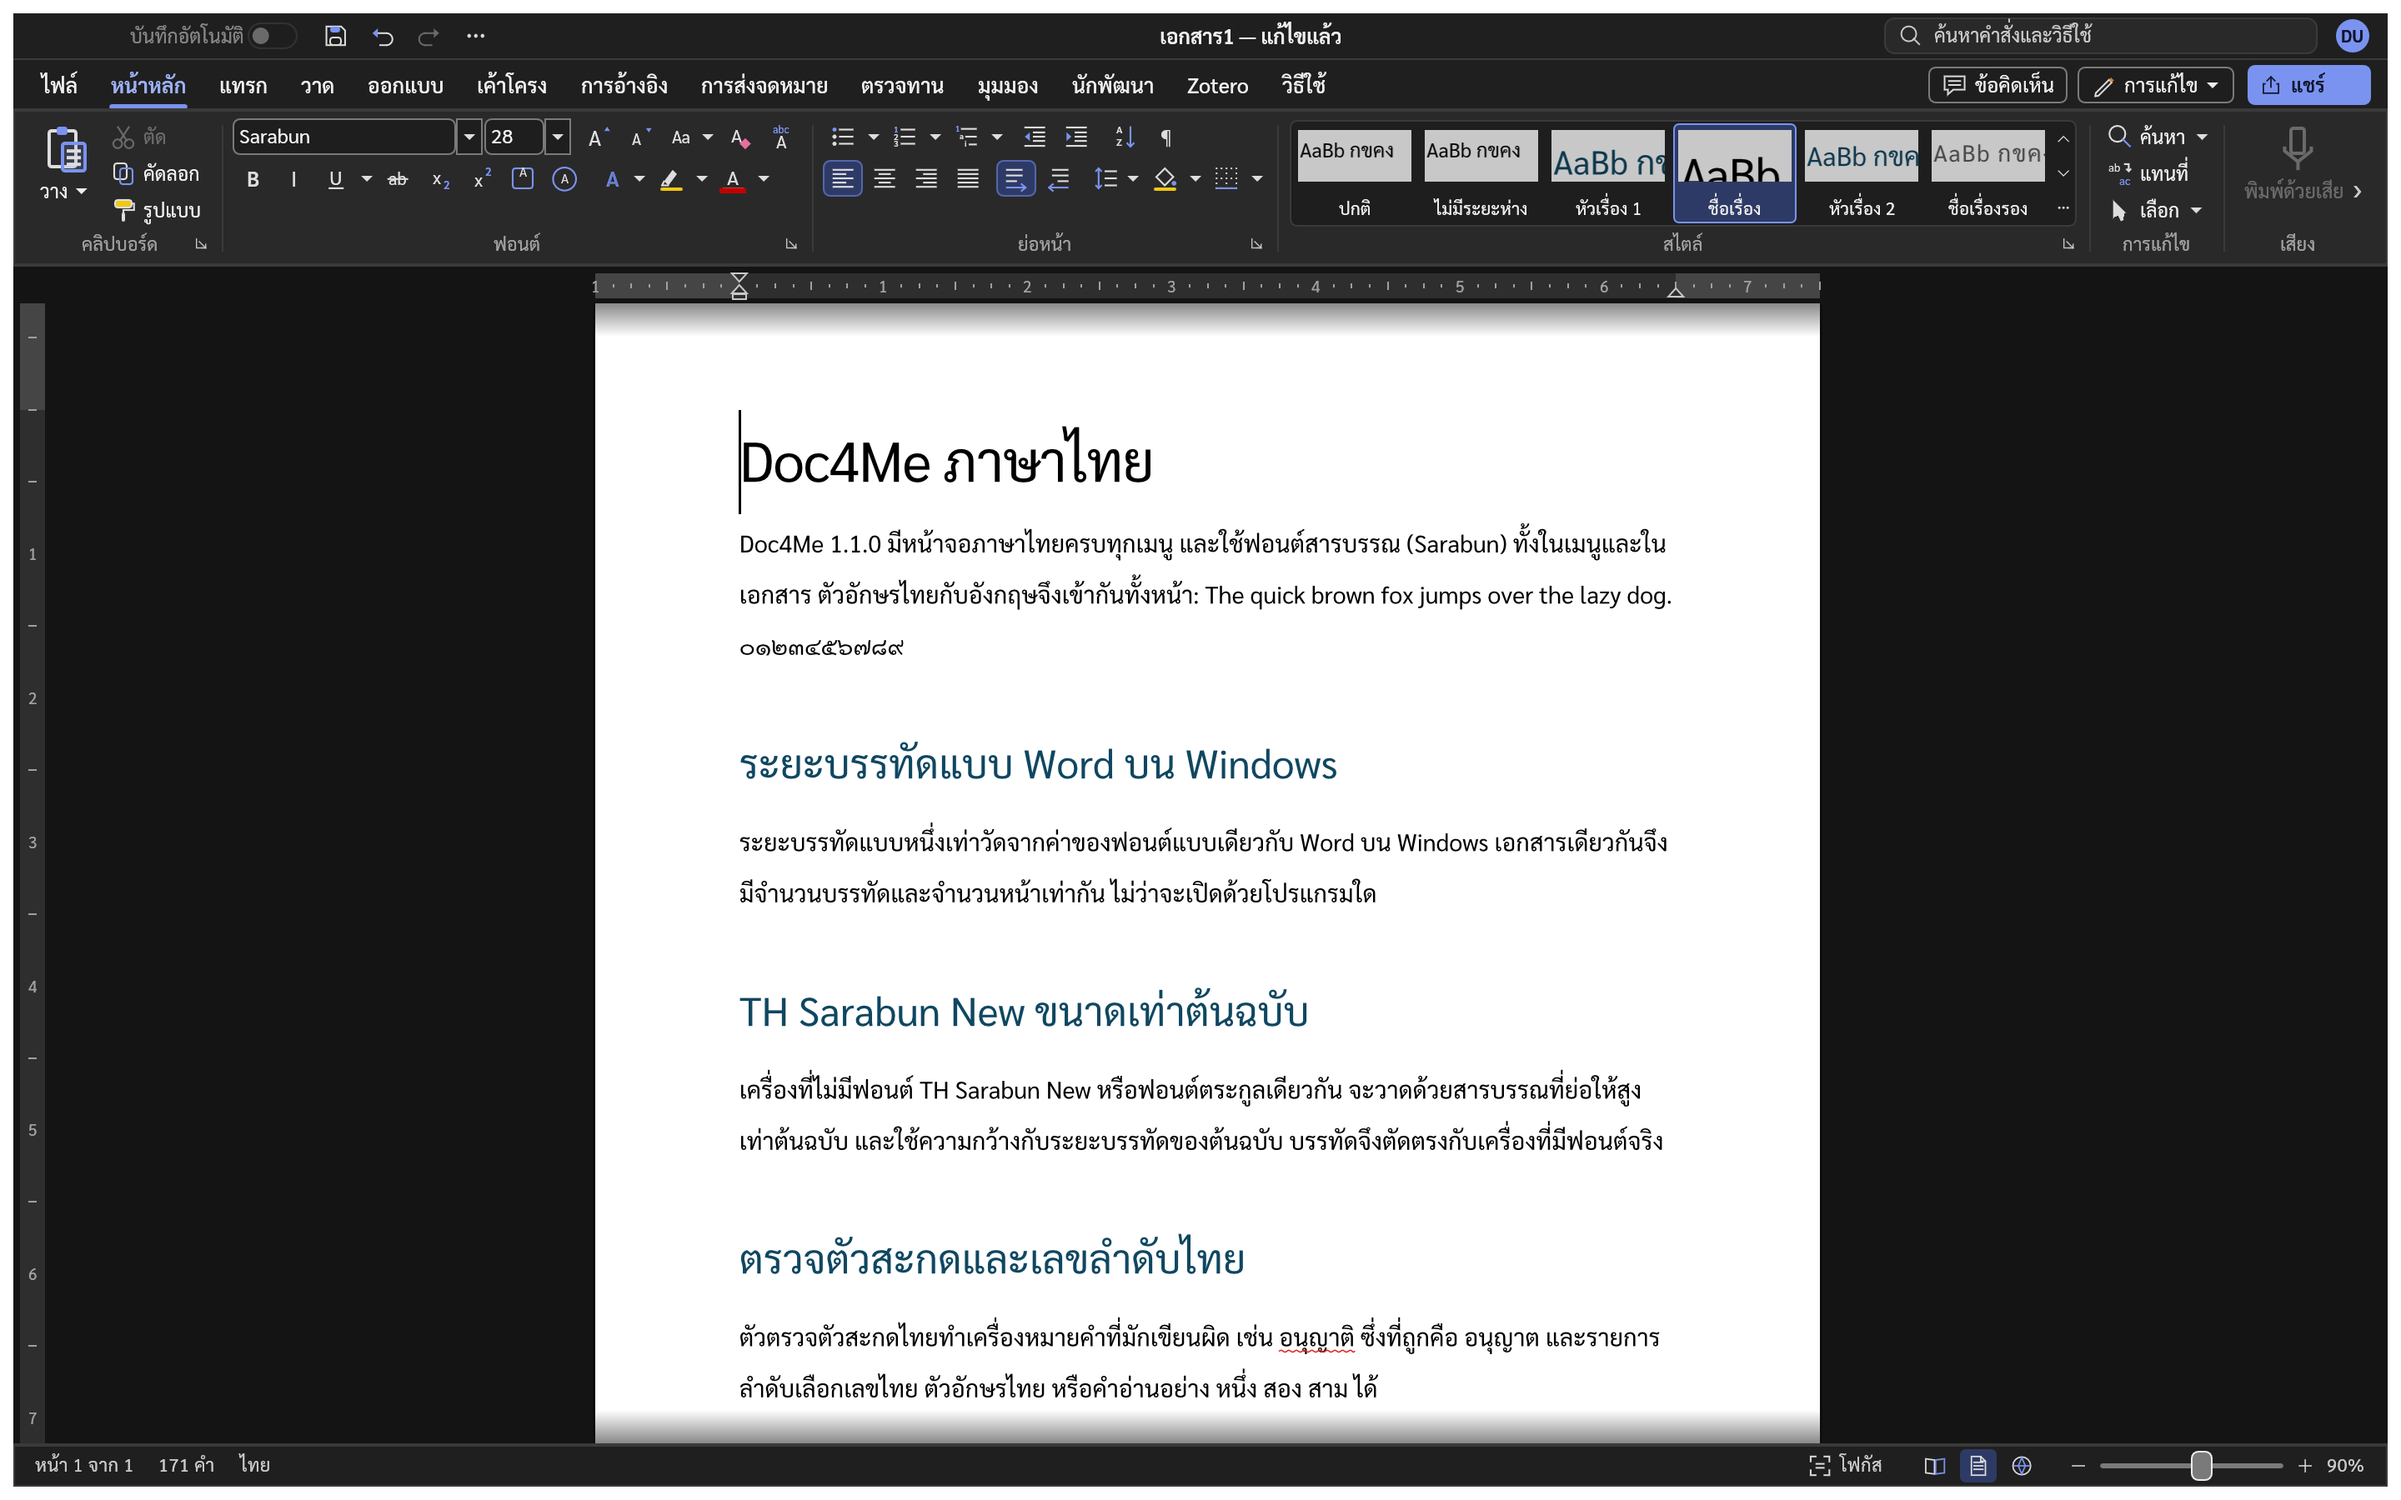
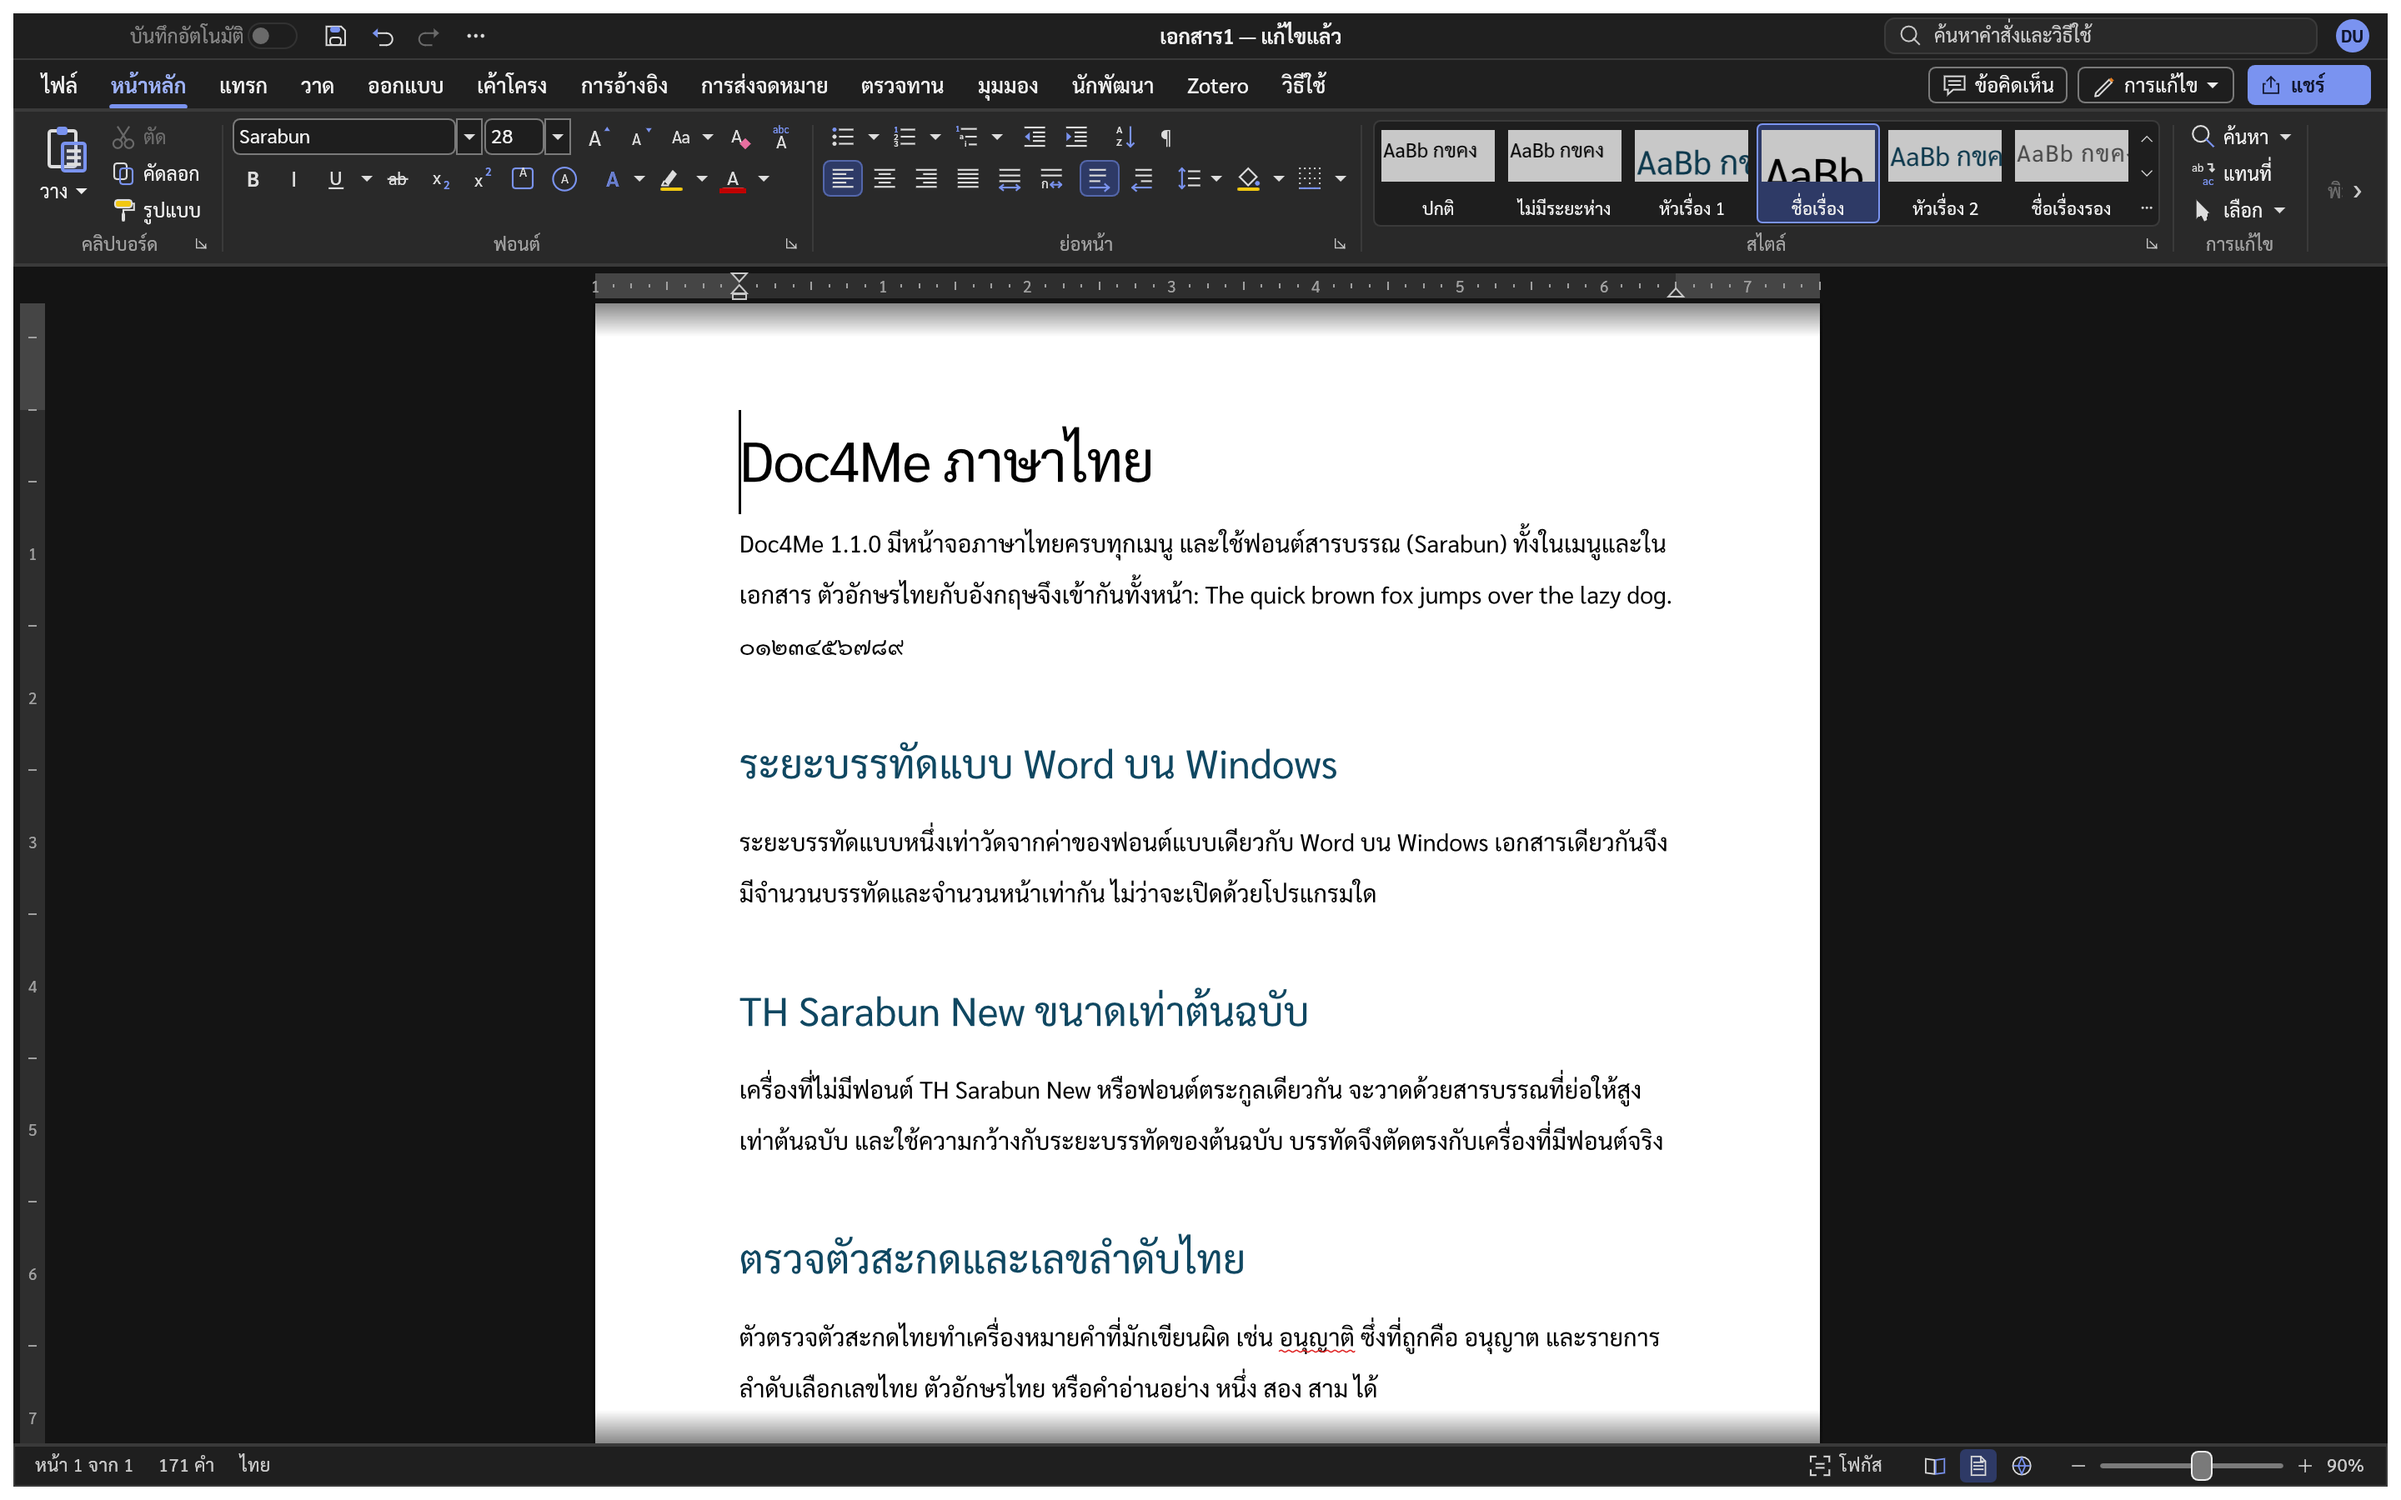
Re-shoot the README screenshots for 1.1.1
The Home tab shows the Distributed and Thai Distributed buttons and the Font
dialog's Advanced page the Normal/Expanded/Condensed spacing box.

Claude-Session: https://claude.ai/code/session_01W347bB3rHem5Shnqp7FVnv

Changed region(s): [[0.5312, 0.0622, 0.9688, 0.1867], [0.4062, 0.0933, 0.5, 0.1867]]

diff --git a/CHANGELOG.md b/CHANGELOG.md
@@ -29,6 +29,11 @@
   - เพิ่ม Expanded = ขยาย, Condensed = บีบ, By: = ขนาด:, Normal (context `spacing`) = ปกติ พร้อมเหตุผลที่เลือก และตัวเลขแค็ตตาล็อกเป็น 2,456 รายการ เป้าหมาย Doc4Me 1.1.1
   - ไม่มีผลต่อโปรแกรม ตรวจสอบ: นับรายการใน `th.tsv` ได้ 2,456 (`grep -vc '^#\|^$'`)
 
+- **ภาพหน้าจอใน README ถ่ายใหม่ด้วย 1.1.1** (`docs/images/{hero,thai,dark,dark-th,font,font-th}.png`)
+  - เหตุผล: แถบย่อหน้าบนริบบอนมีปุ่มจัดกระจายและจัดกระจายแบบไทยเพิ่ม และหน้าขั้นสูงของกล่องฟอนต์เปลี่ยนเป็นช่องระยะห่าง ปกติ/ขยาย/บีบ กับช่องขนาด
+  - ถ่ายด้วยสคริปต์เดิมใน `docs/images/shots/` (ไม่ได้แก้สคริปต์) ภาพอื่นไม่ได้ถ่ายใหม่เพราะไม่แสดงแถบหน้าหลักหรือกล่องฟอนต์
+  - ตรวจสอบ: `ui_shot` ทั้ง 6 สคริปต์จบด้วย exit 0 และเปิดดู `thai.png` กับ `font-th.png` แล้วเห็นปุ่มใหม่ และ ระยะห่าง: ปกติ / ขนาด: 0.0 pt (ปิดใช้งานเมื่อเป็นปกติ)
+
 ### แก้ไข
 
 - **กล่อง Paragraph แสดงการจัดแนว "จัดกระจายแบบไทย" เป็น `thaidistribute`** (`crates/ui-egui/src/dialogs.rs` `align_value`)

diff --git a/handoff.md b/handoff.md
@@ -7,7 +7,8 @@
 - 2026-10-22 ผู้ใช้สั่ง: เพิ่มการจัดแนว จัดกระจายแบบไทย, ระยะห่างตัวอักขระ ปกติ/บีบ/ขยาย ขนาด 0–1584 pt และเลขเวอร์ชัน 1.1.1 ทำเสร็จและ push ไป `main` แล้ว เทสต์ ui-egui/engine, audit ภาษา, clippy และ fmt ผ่าน (ดู `[1.1.1]` หมวดการตรวจสอบ)
 - `Cargo.toml` เป็น 1.1.1 และ CHANGELOG มี `## [1.1.1] - 2026-10-22` แล้ว `[Unreleased]` ว่าง
 - ขั้นที่ session บนคลาวด์ทำไม่ได้ (push tag ได้ HTTP 403): `git fetch origin && git tag -a v1.1.1 origin/main -m "Doc4Me 1.1.1" && git push origin v1.1.1` workflow จะสร้าง Release เอง
-- ยังไม่ได้ถ่ายภาพหน้าจอใหม่ (แถบ Paragraph บนริบบอนมีปุ่มเพิ่มสองปุ่ม) และยังไม่ได้เพิ่มคำใหม่ (ขยาย, บีบ, ขนาด:) ในอภิธานศัพท์ `docs/localization-th.md`
+- 2026-10-22 (รอบสอง): ถ่ายภาพ `hero`, `thai`, `dark`, `dark-th`, `font`, `font-th` ใหม่ และเพิ่มคำ ขยาย/บีบ/ขนาด:/ปกติ ในอภิธานศัพท์แล้ว
+- push tag จาก session นี้ถูกปฏิเสธ (นับเป็นการเผยแพร่สาธารณะ) เจ้าของ repo ต้อง push `v1.1.1` เอง
 
 ## ประวัติ 1.1.0 (ออกแล้ว 2026-10-21)
 
